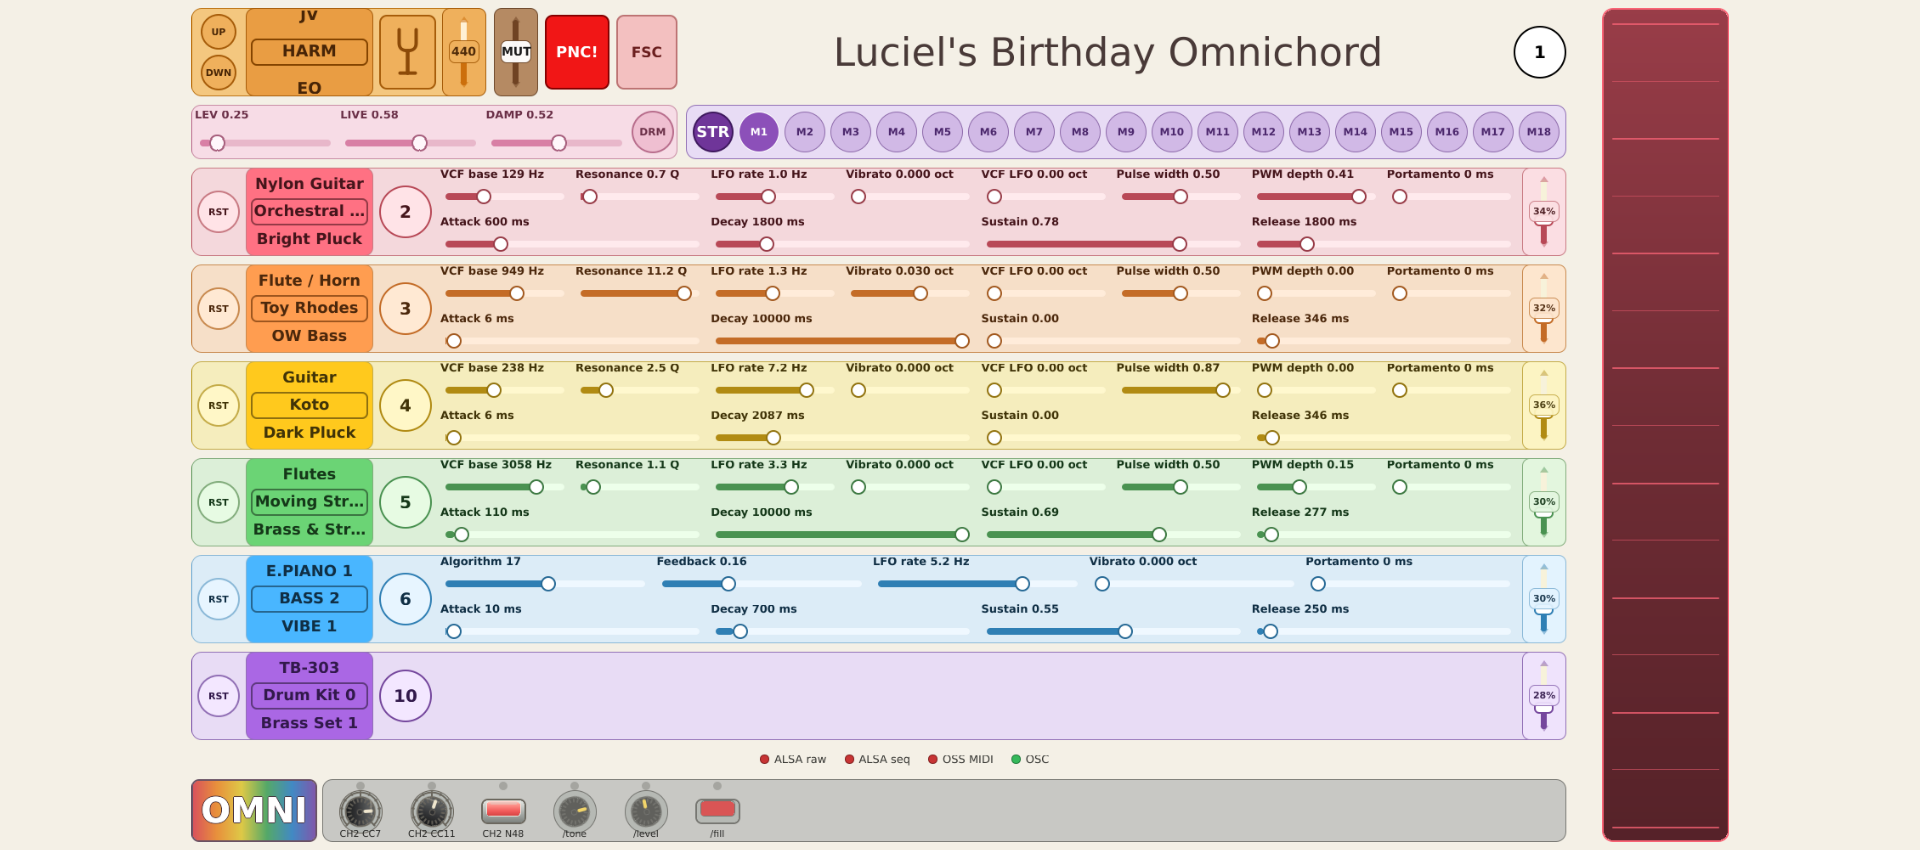
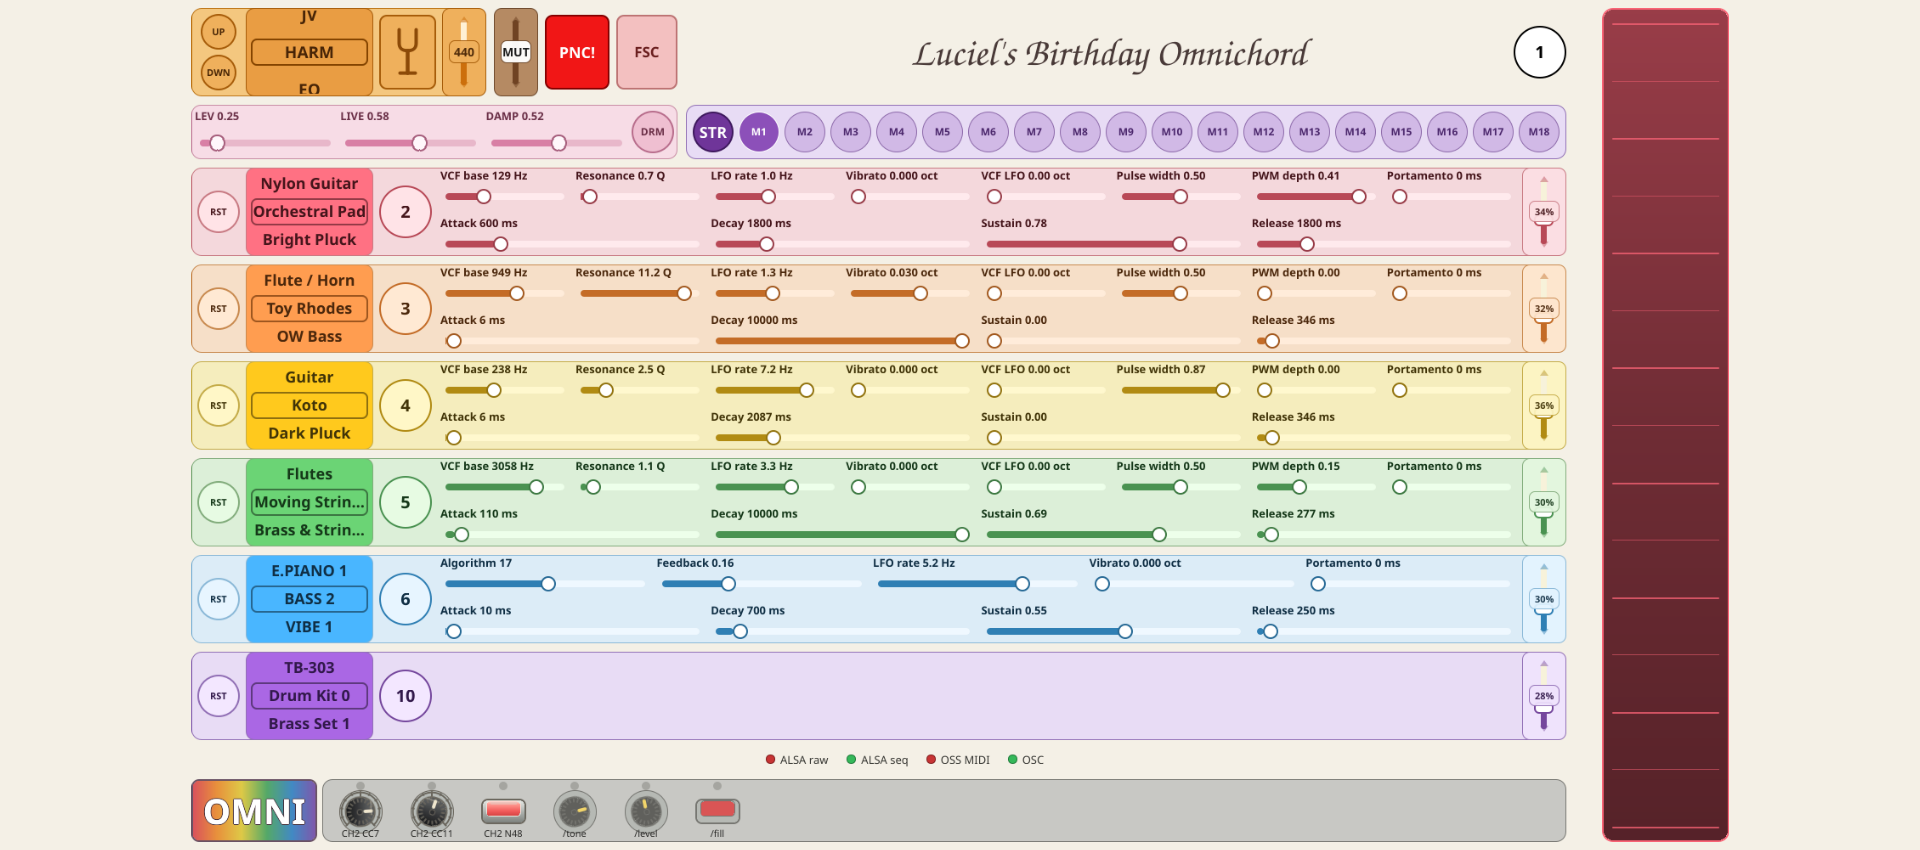
Fix README title font capture

diff --git a/amysynth_version/qt_frontend/tests/test_packaging.py b/amysynth_version/qt_frontend/tests/test_packaging.py
@@ -406,6 +406,12 @@ class PackagingContracts(unittest.TestCase):
             "python amysynth_version/qt_frontend/capture_screenshots.py",
             release,
         )
+        self.assertIn("sudo apt-get install -y libegl1 fonts-urw-base35", release)
+        self.assertIn(
+            "fc-match --format='%{family}\\n' 'URW Chancery L' "
+            "| grep -Fx 'Z003'",
+            release,
+        )
         self.assertIn(
             "python amysynth_version/qt_frontend/tools/"
             "update_release_screenshots.py",
